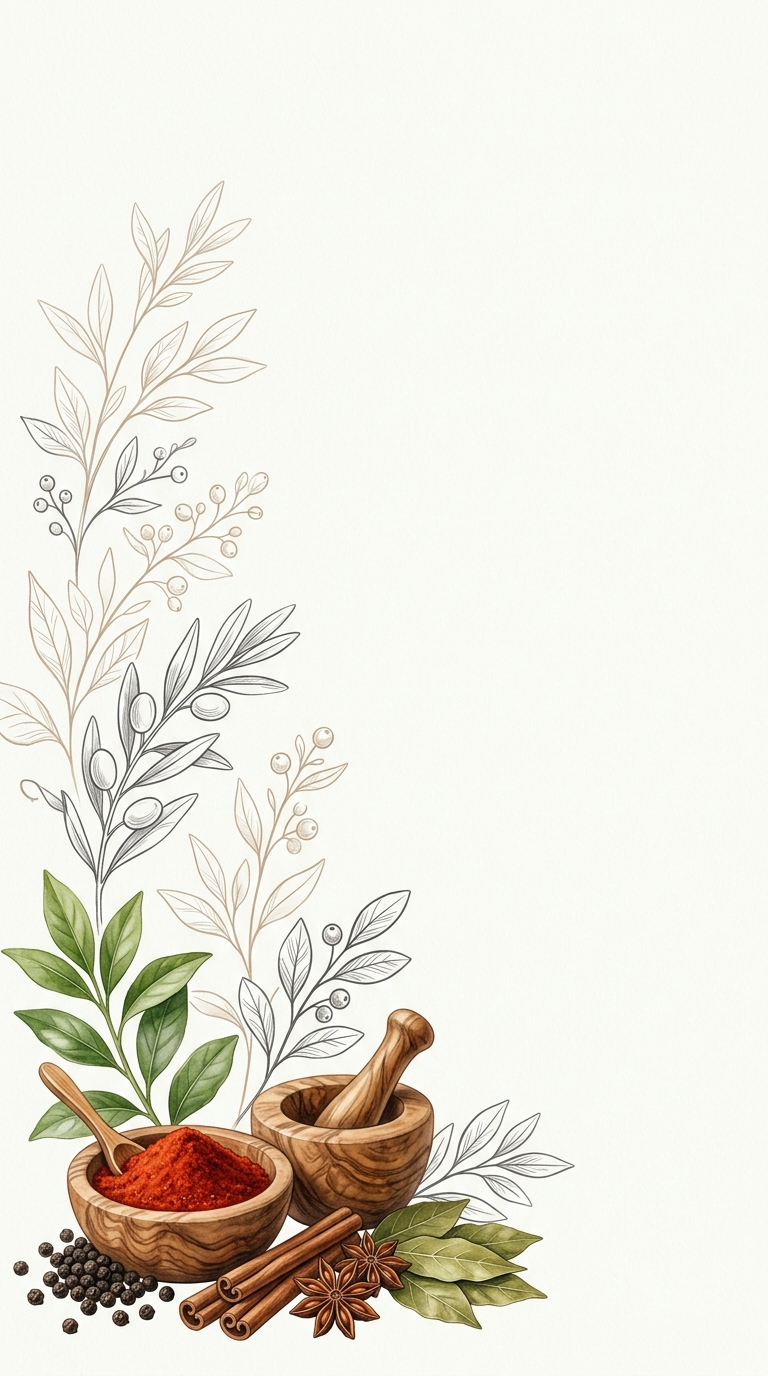
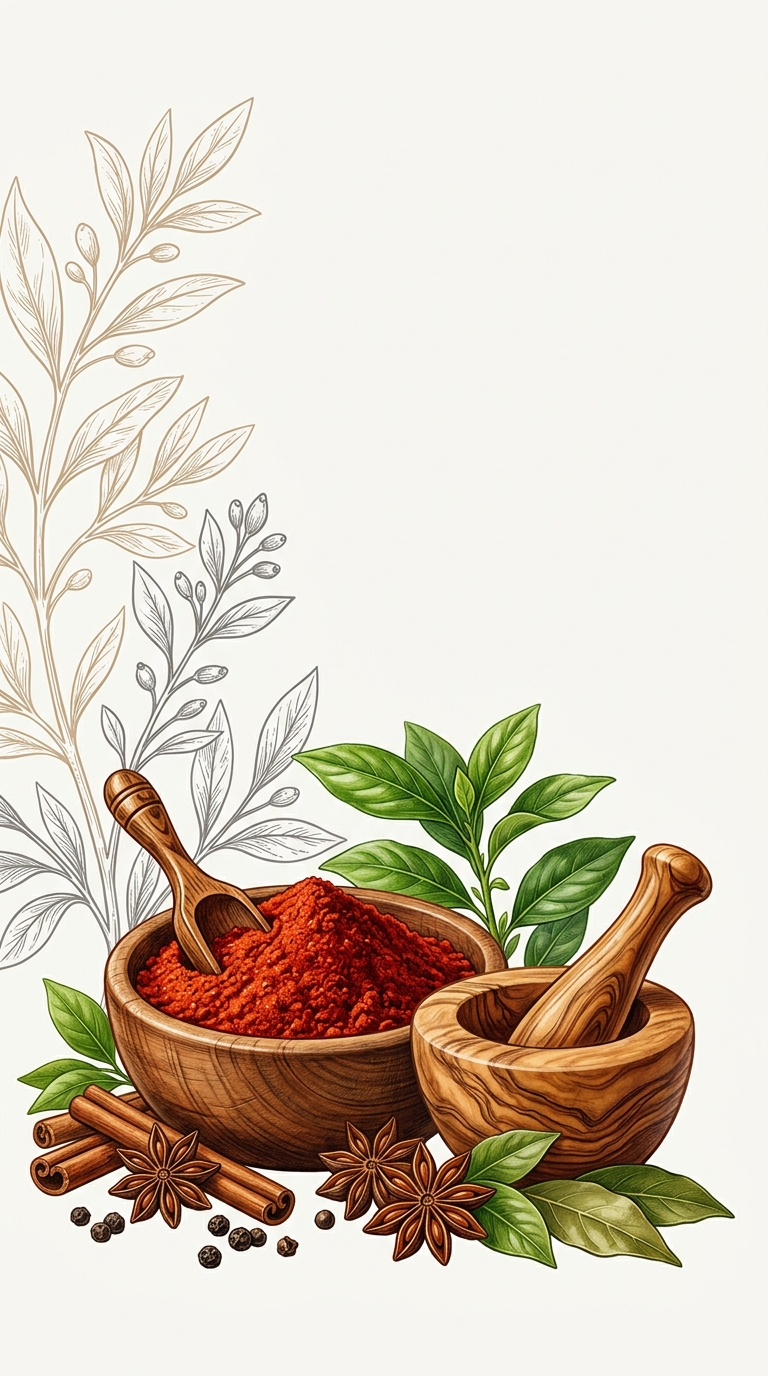
fix(employee-hygiene): enlarge sidebar artwork, fix audit archive loading, and preserve card gap on view switch

diff --git a/js/app.js b/js/app.js
@@ -551,9 +551,9 @@ window.switchView = function(view) {
     el.classList.toggle('active', el.dataset.view === view);
   });
 
-  document.getElementById('view-daily').style.display = (view === 'daily') ? 'block' : 'none';
-  document.getElementById('view-monthly').style.display = (view === 'monthly') ? 'block' : 'none';
-  document.getElementById('view-history').style.display = (view === 'history') ? 'block' : 'none';
+  document.getElementById('view-daily').style.display = (view === 'daily') ? 'flex' : 'none';
+  document.getElementById('view-monthly').style.display = (view === 'monthly') ? 'flex' : 'none';
+  document.getElementById('view-history').style.display = (view === 'history') ? 'flex' : 'none';
 
   // Auto-close mobile drawer if open
   const sidebar = document.getElementById('sidebar');
@@ -569,53 +569,90 @@ window.switchView = function(view) {
 window.renderHistoryList = async function() {
   const listContainer = document.getElementById('history-list-container');
   if (!listContainer) return;
-  listContainer.innerHTML = '<div style="padding:20px; color:#64748B;">Loading archive records...</div>';
 
-  const cloud = await loadAllEmployeeRecordsFromCloud();
-  Object.assign(allEmployeeRecords, cloud);
-
-  // Read local storage keys
+  // 1. Gather local records immediately so user never waits
   for (let i = 0; i < localStorage.length; i++) {
     const k = localStorage.key(i);
     if (k && k.startsWith('lv_emp_')) {
       const d = k.replace('lv_emp_', '');
       if (!allEmployeeRecords[d]) {
-        try { allEmployeeRecords[d] = JSON.parse(localStorage.getItem(k)); } catch(e) {}
+        try {
+          const parsed = JSON.parse(localStorage.getItem(k));
+          allEmployeeRecords[d] = Array.isArray(parsed) ? parsed : (parsed?.rows || []);
+        } catch(e) {}
       }
     }
   }
 
-  const mSel = document.getElementById('hist-month-sel');
-  const ySel = document.getElementById('hist-year-sel');
-  const prefix = `${ySel ? ySel.value : '2026'}-${mSel ? mSel.value.padStart(2,'0') : '10'}`;
-
-  const dates = Object.keys(allEmployeeRecords).filter(k => k.startsWith(prefix)).sort().reverse();
-
-  if (dates.length === 0) {
-    listContainer.innerHTML = `
-      <div style="text-align:center; padding:50px 20px; color:#64748B;">
-        <h3>No records found for ${prefix}</h3>
-        <p>Switch to October 2026 to see full compliant records.</p>
-      </div>
-    `;
-    return;
+  // Ensure current October days 1-18 are in memory
+  if (Object.keys(allEmployeeRecords).length === 0) {
+    pregenerateOctober2026Data();
   }
 
-  listContainer.innerHTML = dates.map(ds => {
-    const rows = allEmployeeRecords[ds] || [];
-    const issues = rows.filter(r => r.uniform === 'X' || r.hygiene === 'X' || r.nails === 'X' || r.health === 'X').length;
-    return `
-      <div class="history-item-row" onclick="selectDate('${ds}')">
-        <div class="hist-card-left">
-          <h4>${formatDateDisplay(ds)}</h4>
-          <p>Supervisor: Mukesh Vora • 11 Staff Verified</p>
+  function displayList() {
+    const mSel = document.getElementById('hist-month-sel');
+    const ySel = document.getElementById('hist-year-sel');
+    const prefix = `${ySel ? ySel.value : '2026'}-${mSel ? String(mSel.value).padStart(2,'0') : '10'}`;
+
+    const dates = Object.keys(allEmployeeRecords).filter(k => k.startsWith(prefix)).sort().reverse();
+
+    if (dates.length === 0) {
+      listContainer.innerHTML = `
+        <div style="text-align:center; padding:40px 20px; background:#FFFFFF; border:1px solid #E4E7EC; border-radius:12px; color:#667085;">
+          <h3 style="color:#171923; margin-bottom:6px;">No records found for ${prefix}</h3>
+          <p style="font-size:12.5px;">Switch month to October 2026 to see full compliant records.</p>
         </div>
-        <div>
-          <span class="hist-badge ${issues > 0 ? 'issues' : 'ok'}">${issues > 0 ? `${issues} Deficiencies` : '100% OK'}</span>
+      `;
+      return;
+    }
+
+    listContainer.innerHTML = dates.map(ds => {
+      let rows = allEmployeeRecords[ds];
+      if (rows && !Array.isArray(rows) && Array.isArray(rows.rows)) {
+        rows = rows.rows;
+        allEmployeeRecords[ds] = rows;
+      }
+      if (!Array.isArray(rows)) rows = [];
+
+      const issues = rows.filter(r => r.uniform === 'X' || r.hygiene === 'X' || r.nails === 'X' || r.health === 'X').length;
+      return `
+        <div class="history-item-row" onclick="selectDate('${ds}')">
+          <div class="hist-card-left">
+            <h4>${formatDateDisplay(ds)}</h4>
+            <p>Supervisor: Mukesh Vora • 11 Staff Verified</p>
+          </div>
+          <div>
+            <span class="hist-badge ${issues > 0 ? 'issues' : 'ok'}">${issues > 0 ? `${issues} Deficiencies` : '100% OK'}</span>
+          </div>
         </div>
-      </div>
-    `;
-  }).join('');
+      `;
+    }).join('');
+  }
+
+  // Display immediately from cache/localStorage
+  displayList();
+
+  // 2. Fetch cloud records in background with timeout
+  try {
+    const cloudPromise = loadAllEmployeeRecordsFromCloud();
+    const timeoutPromise = new Promise(resolve => setTimeout(() => resolve(null), 2500));
+    const cloud = await Promise.race([cloudPromise, timeoutPromise]);
+
+    if (cloud && typeof cloud === 'object') {
+      let changed = false;
+      Object.keys(cloud).forEach(d => {
+        const item = cloud[d];
+        const docRows = Array.isArray(item) ? item : (item?.rows || null);
+        if (docRows && (!allEmployeeRecords[d] || allEmployeeRecords[d].length === 0)) {
+          allEmployeeRecords[d] = docRows;
+          changed = true;
+        }
+      });
+      if (changed) displayList();
+    }
+  } catch (err) {
+    console.warn("[Audit Archive] Cloud sync notice:", err);
+  }
 };
 
 // ──────────────────────────────────────────────────────────────────────────────

diff --git a/css/style.css b/css/style.css
@@ -181,16 +181,20 @@ html, body {
   user-select: none;
   display: flex;
   align-items: flex-end;
-  justify-content: flex-start;
+  justify-content: center;
   overflow: hidden;
+  height: 380px;
+  max-height: 48vh;
+  flex-shrink: 0;
 }
 
 .sidebar-botanical-art {
   width: 100%;
-  max-height: 220px;
-  object-fit: contain;
+  height: 100%;
+  object-fit: cover;
   object-position: left bottom;
   display: block;
+  filter: contrast(1.05) saturate(1.08);
 }
 
 /* Sidebar Bottom Stats (Clean 2-Column Layout) */
@@ -360,15 +364,18 @@ html, body {
   transform: translateY(-1px);
 }
 
-/* ── VIEW CONTAINER (22px HORIZONTAL PADDING, 15-16px VERTICAL GAPS) ── */
+/* ── VIEW CONTAINER (22px HORIZONTAL PADDING, 16px VERTICAL GAPS) ── */
 .view-container {
   padding: 0 22px 24px 22px;
-  display: flex;
+  display: flex !important;
   flex-direction: column;
-  gap: 15px;
+  gap: 16px;
   flex: 1;
   min-width: 0;
   max-width: 100%;
+}
+.view-container[style*="none"] {
+  display: none !important;
 }
 
 /* ── 5. PREMIUM HERO BANNER (hygiene-hero.webp) ── */
@@ -1027,11 +1034,24 @@ html, body {
   border-color: var(--brand-red);
   box-shadow: 0 2px 6px rgba(181, 18, 38, 0.08);
 }
+.hist-card-left h4 {
+  font-size: 13.5px;
+  font-weight: 700;
+  color: var(--text-dark);
+  margin-bottom: 3px;
+}
+.hist-card-left p {
+  font-size: 11.5px;
+  color: var(--text-muted);
+}
 .hist-badge {
-  padding: 3px 10px;
+  padding: 4px 12px;
   border-radius: var(--radius-pill);
   font-size: 11px;
   font-weight: 700;
+  display: inline-flex;
+  align-items: center;
+  gap: 4px;
 }
 .hist-badge.ok     { background: var(--success-green-bg); color: var(--success-green-tx); }
 .hist-badge.issues { background: #FEE4E2; color: #B42318; }

diff --git a/index.html b/index.html
@@ -13,7 +13,7 @@
   
   <!-- SheetJS for Excel Exports -->
   <script src="https://cdn.jsdelivr.net/npm/xlsx@0.18.5/dist/xlsx.full.min.js"></script>
-  <link rel="stylesheet" href="css/style.css?v=3.0.0" />
+  <link rel="stylesheet" href="css/style.css?v=3.2.0" />
 </head>
 <body>
 
@@ -614,7 +614,7 @@
 <div class="toast-stack" id="toast-stack"></div>
 
 <!-- Scripts -->
-<script type="module" src="js/firebase-config.js"></script>
-<script type="module" src="js/app.js"></script>
+<script type="module" src="js/firebase-config.js?v=3.2.0"></script>
+<script type="module" src="js/app.js?v=3.2.0"></script>
 </body>
 </html>
